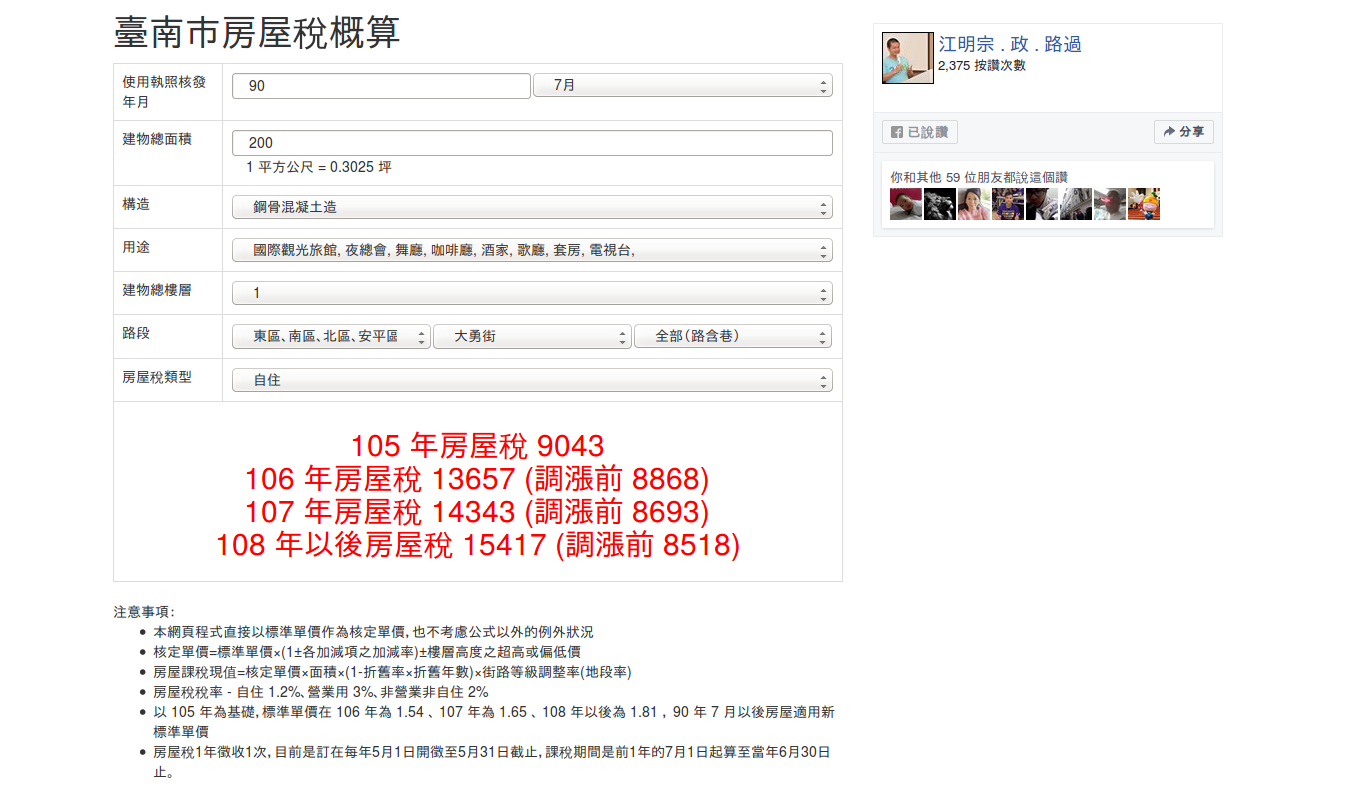
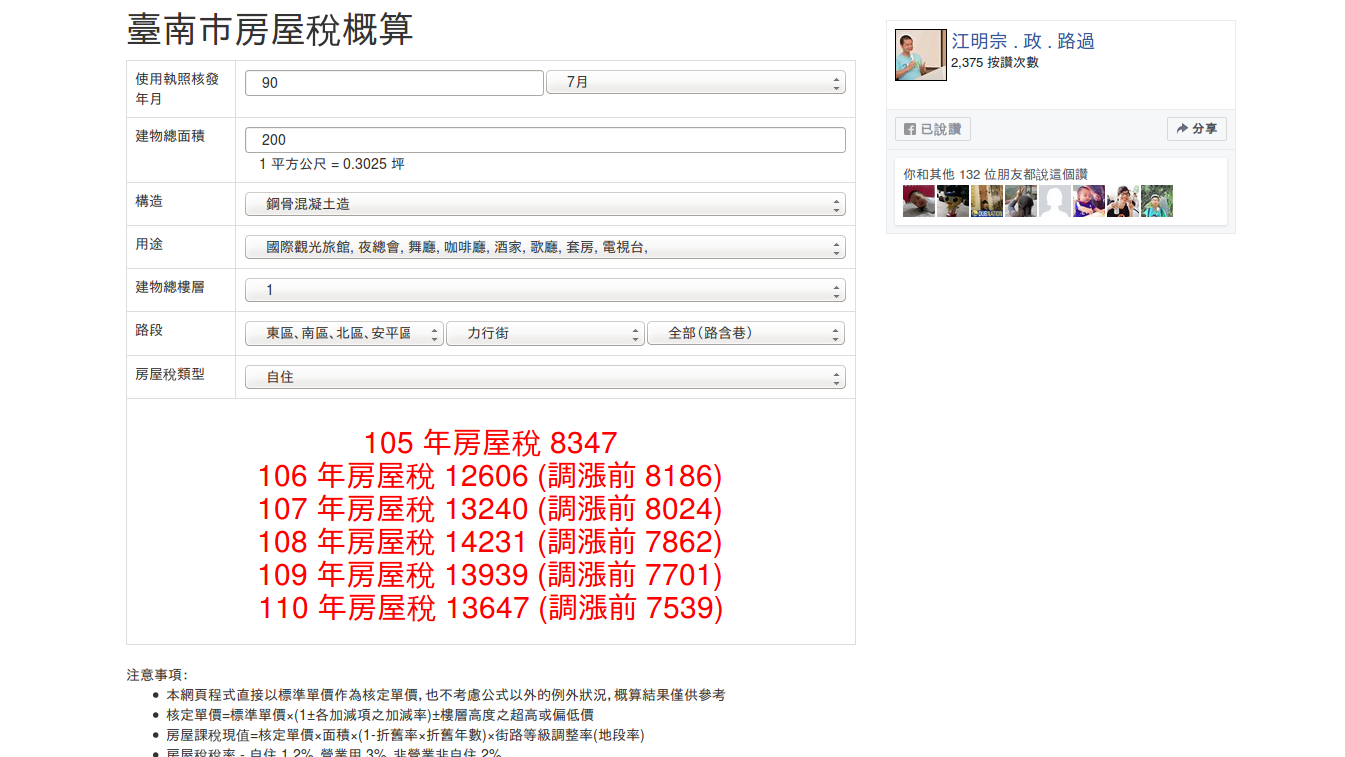
add additional years

diff --git a/main.js b/main.js
@@ -94,9 +94,29 @@ $(function() {
       tax2 = strucLevel * area * (1 - (rateYear * struc[strucBase].rate / 100)) * (level3 / 100) * (taxType / 100);
       tax2 = parseInt(tax2);
       if(year > 90 || (year == 90 && month > 6)) {
-        result += '<br />108 年以後房屋稅 ' + tax1 + ' (調漲前 ' + tax2 + ')';
+        result += '<br />108 年房屋稅 ' + tax1 + ' (調漲前 ' + tax2 + ')';
       } else {
-        result += '<br />108 年以後房屋稅 ' + tax2;
+        result += '<br />108 年房屋稅 ' + tax2;
+      }
+      rateYear += 1;
+      tax1 = strucLevel * 1.81 * area * (1 - (rateYear * struc[strucBase].rate / 100)) * (level3 / 100) * (taxType / 100);
+      tax1 = parseInt(tax1);
+      tax2 = strucLevel * area * (1 - (rateYear * struc[strucBase].rate / 100)) * (level3 / 100) * (taxType / 100);
+      tax2 = parseInt(tax2);
+      if(year > 90 || (year == 90 && month > 6)) {
+        result += '<br />109 年房屋稅 ' + tax1 + ' (調漲前 ' + tax2 + ')';
+      } else {
+        result += '<br />109 年房屋稅 ' + tax2;
+      }
+      rateYear += 1;
+      tax1 = strucLevel * 1.81 * area * (1 - (rateYear * struc[strucBase].rate / 100)) * (level3 / 100) * (taxType / 100);
+      tax1 = parseInt(tax1);
+      tax2 = strucLevel * area * (1 - (rateYear * struc[strucBase].rate / 100)) * (level3 / 100) * (taxType / 100);
+      tax2 = parseInt(tax2);
+      if(year > 90 || (year == 90 && month > 6)) {
+        result += '<br />110 年房屋稅 ' + tax1 + ' (調漲前 ' + tax2 + ')';
+      } else {
+        result += '<br />110 年房屋稅 ' + tax2;
       }
 
       $('#result').html(result);
